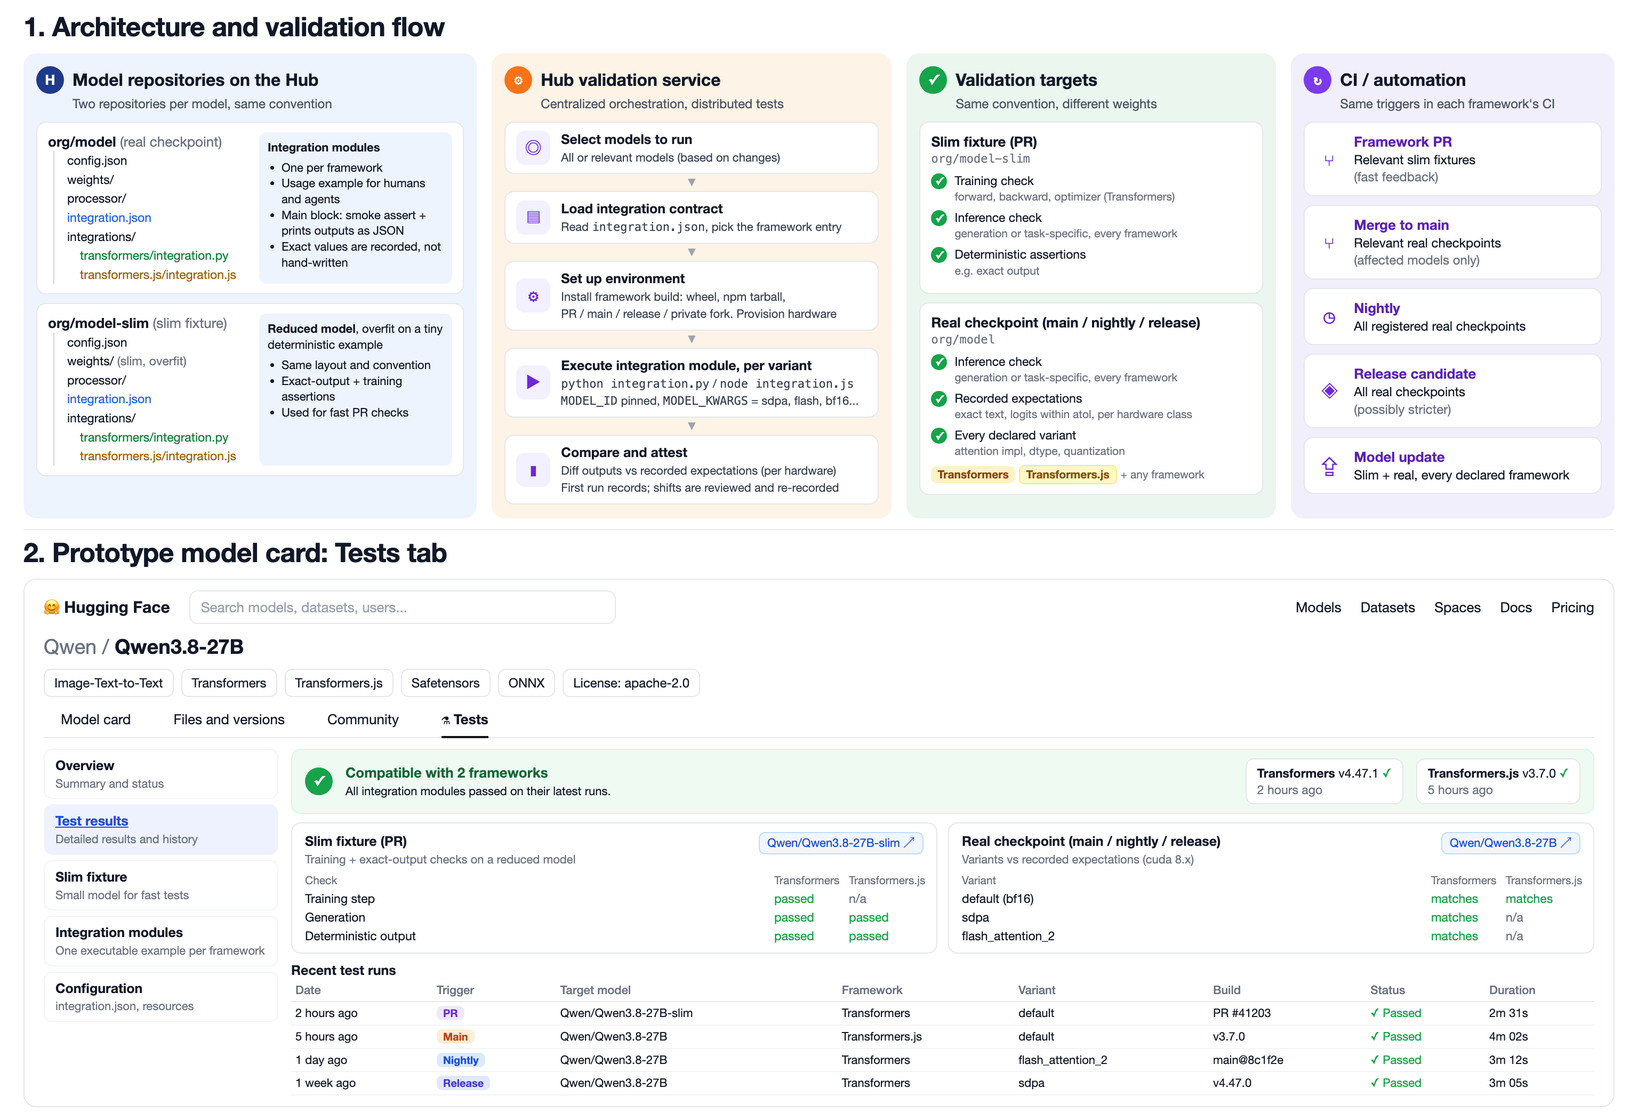
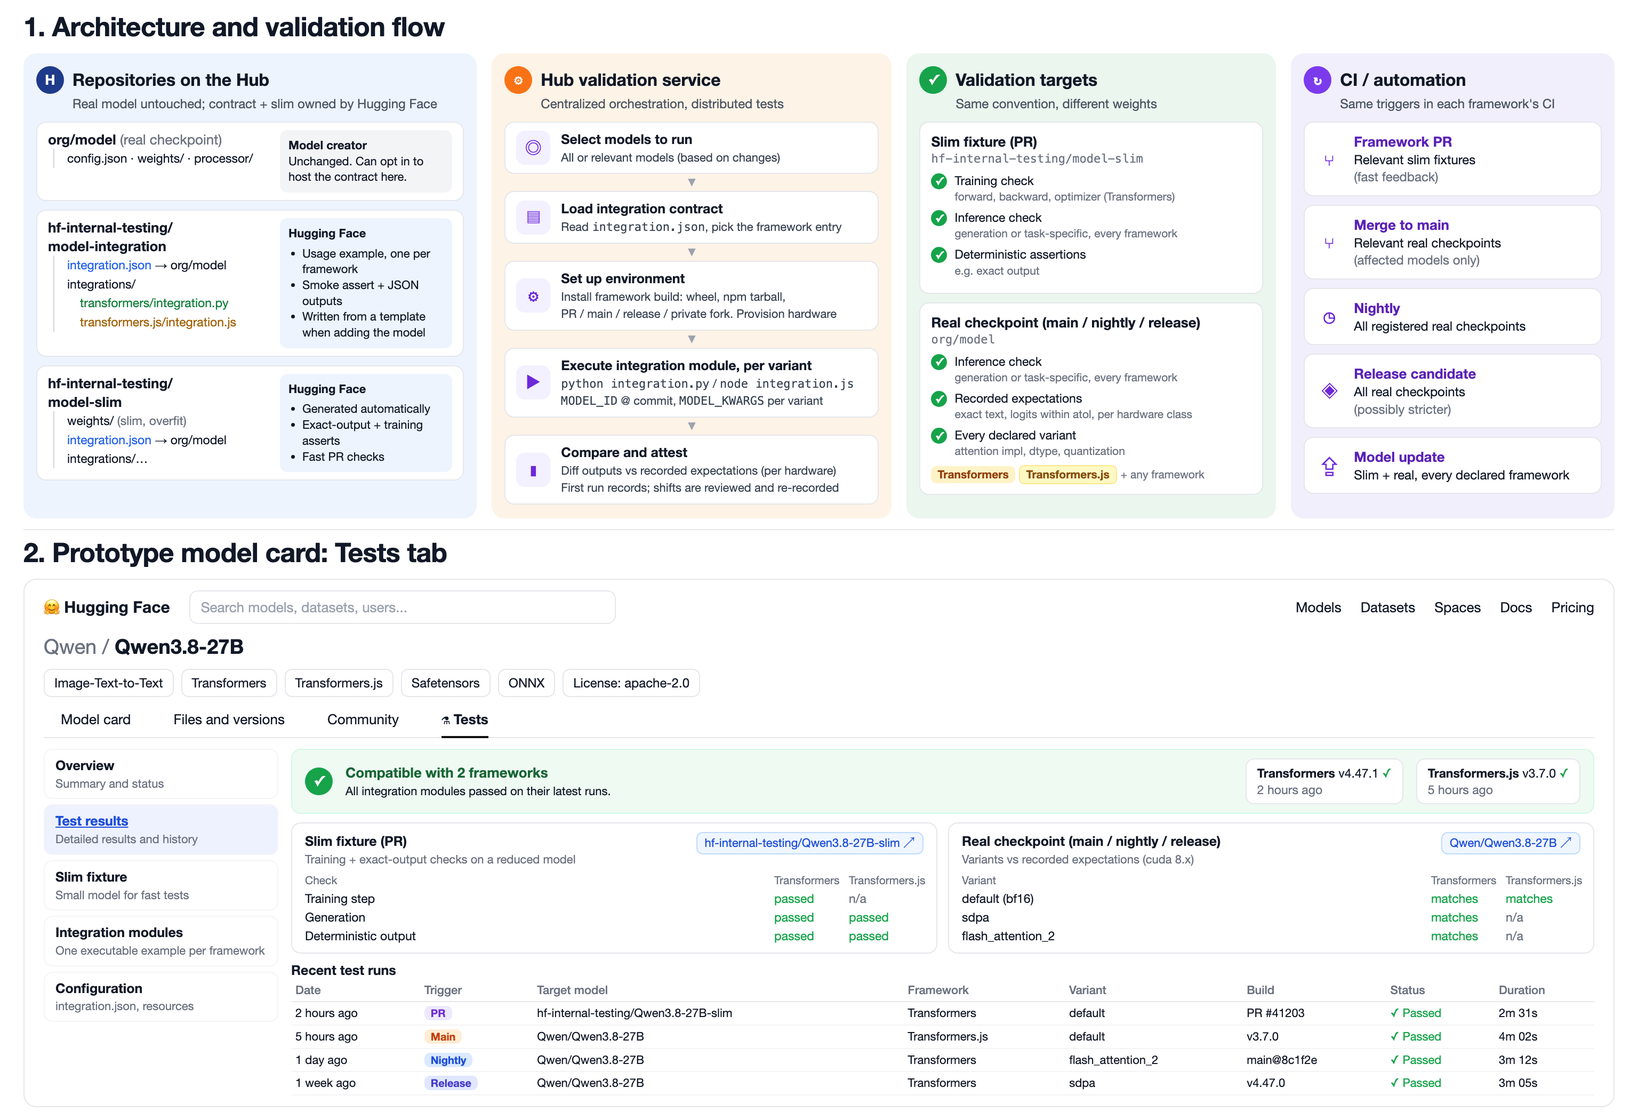
Default to Hugging Face-owned companion repos for contracts and slim fixtures
Based on maintainer feedback: no extra burden on contributors, HF keeps
control of slim checkpoints, model repos stay untouched (creators can opt in),
and runs follow the model's main branch while recording the resolved commit.

diff --git a/model-arch.html b/model-arch.html
@@ -66,21 +66,25 @@ td{padding:3px 4px;border-bottom:1px solid #f3f4f6}
 <div class="row" style="height:436px">
   <!-- Repos -->
   <div class="col blue" style="flex:1.12">
-    <h2><span class="ic" style="background:#1e3a8a">H</span>Model repositories on the Hub</h2>
-    <div class="sub">Two repositories per model, same convention</div>
-    <div class="card repo">
+    <h2><span class="ic" style="background:#1e3a8a">H</span>Repositories on the Hub</h2>
+    <div class="sub">Real model untouched; contract + slim owned by Hugging Face</div>
+    <div class="card repo" style="padding:7px 10px">
       <div class="tree"><div class="t">org/model <span class="muted" style="font-weight:400">(real checkpoint)</span></div>
-        <div class="f">config.json<br>weights/<br>processor/<br><span class="hl">integration.json</span><br>integrations/</div>
-        <div class="f f2"><span class="hlg">transformers/integration.py</span><br><span class="hly">transformers.js/integration.js</span></div>
-      </div>
-      <div class="call"><b>Integration modules</b><ul><li>One per framework</li><li>Usage example for humans and agents</li><li>Main block: smoke assert + prints outputs as JSON</li><li>Exact values are recorded, not hand-written</li></ul></div>
+        <div class="f">config.json · weights/ · processor/</div></div>
+      <div class="call" style="flex:.8;background:#f3f4f6"><b>Model creator</b><br>Unchanged. Can opt in to host the contract here.</div>
     </div>
-    <div class="card repo" style="margin-bottom:0">
-      <div class="tree"><div class="t">org/model-slim <span class="muted" style="font-weight:400">(slim fixture)</span></div>
-        <div class="f">config.json<br>weights/ <span class="muted">(slim, overfit)</span><br>processor/<br><span class="hl">integration.json</span><br>integrations/</div>
+    <div class="card repo" style="padding:7px 10px">
+      <div class="tree"><div class="t">hf-internal-testing/<br>model-integration</div>
+        <div class="f"><span class="hl">integration.json</span> → org/model<br>integrations/</div>
         <div class="f f2"><span class="hlg">transformers/integration.py</span><br><span class="hly">transformers.js/integration.js</span></div>
       </div>
-      <div class="call"><b>Reduced model</b>, overfit on a tiny deterministic example<ul><li>Same layout and convention</li><li>Exact-output + training assertions</li><li>Used for fast PR checks</li></ul></div>
+      <div class="call" style="flex:.8"><b>Hugging Face</b><ul><li>Usage example, one per framework</li><li>Smoke assert + JSON outputs</li><li>Written from a template when adding the model</li></ul></div>
+    </div>
+    <div class="card repo" style="padding:7px 10px;margin-bottom:0">
+      <div class="tree"><div class="t">hf-internal-testing/<br>model-slim</div>
+        <div class="f">weights/ <span class="muted">(slim, overfit)</span><br><span class="hl">integration.json</span> → org/model<br>integrations/…</div>
+      </div>
+      <div class="call" style="flex:.8"><b>Hugging Face</b><ul><li>Generated automatically</li><li>Exact-output + training asserts</li><li>Fast PR checks</li></ul></div>
     </div>
   </div>
   <!-- Service -->
@@ -93,7 +97,7 @@ td{padding:3px 4px;border-bottom:1px solid #f3f4f6}
     <div class="arrow">▼</div>
     <div class="step"><div class="sq">⚙</div><div><b>Set up environment</b><span>Install framework build: wheel, npm tarball,<br>PR / main / release / private fork. Provision hardware</span></div></div>
     <div class="arrow">▼</div>
-    <div class="step"><div class="sq">▶</div><div><b>Execute integration module, per variant</b><span><span class="mono">python integration.py</span> / <span class="mono">node integration.js</span><br><span class="mono">MODEL_ID</span> pinned, <span class="mono">MODEL_KWARGS</span> = sdpa, flash, bf16...</span></div></div>
+    <div class="step"><div class="sq">▶</div><div><b>Execute integration module, per variant</b><span><span class="mono">python integration.py</span> / <span class="mono">node integration.js</span><br><span class="mono">MODEL_ID</span> @ commit, <span class="mono">MODEL_KWARGS</span> per variant</span></div></div>
     <div class="arrow">▼</div>
     <div class="step" style="margin-bottom:0"><div class="sq">▮</div><div><b>Compare and attest</b><span>Diff outputs vs recorded expectations (per hardware)<br>First run records; shifts are reviewed and re-recorded</span></div></div>
   </div>
@@ -101,7 +105,7 @@ td{padding:3px 4px;border-bottom:1px solid #f3f4f6}
   <div class="col green" style="flex:.9">
     <h2><span class="ic" style="background:#16a34a">✓</span>Validation targets</h2>
     <div class="sub">Same convention, different weights</div>
-    <div class="card"><b style="font-size:13px">Slim fixture (PR)</b><div class="mono muted">org/model-slim</div>
+    <div class="card"><b style="font-size:13px">Slim fixture (PR)</b><div class="mono muted">hf-internal-testing/model-slim</div>
       <ul class="chk"><li><div>Training check<small>forward, backward, optimizer (Transformers)</small></div></li>
       <li><div>Inference check<small>generation or task-specific, every framework</small></div></li>
       <li><div>Deterministic assertions<small>e.g. exact output</small></div></li></ul></div>
@@ -143,7 +147,7 @@ td{padding:3px 4px;border-bottom:1px solid #f3f4f6}
         <div class="fw"><b>Transformers</b> v4.47.1 <span class="ok">✓</span><br><span class="muted">2 hours ago</span></div>
         <div class="fw"><b>Transformers.js</b> v3.7.0 <span class="ok">✓</span><br><span class="muted">5 hours ago</span></div></div>
       <div class="row" style="margin-top:8px;gap:10px">
-        <div class="panel"><div class="hd"><div><b style="font-size:12.5px">Slim fixture (PR)</b><br><span class="muted" style="font-size:11px">Training + exact-output checks on a reduced model</span></div><span class="link">Qwen/Qwen3.8-27B-slim ↗</span></div>
+        <div class="panel"><div class="hd"><div><b style="font-size:12.5px">Slim fixture (PR)</b><br><span class="muted" style="font-size:11px">Training + exact-output checks on a reduced model</span></div><span class="link">hf-internal-testing/Qwen3.8-27B-slim ↗</span></div>
           <div class="res"><span class="h">Check</span><span class="h">Transformers</span><span class="h">Transformers.js</span>
           <span>Training step</span><span class="ok">passed</span><span class="muted">n/a</span>
           <span>Generation</span><span class="ok">passed</span><span class="ok">passed</span>
@@ -156,7 +160,7 @@ td{padding:3px 4px;border-bottom:1px solid #f3f4f6}
       </div>
       <div style="margin-top:7px"><b style="font-size:12.5px">Recent test runs</b>
       <table><tr><th>Date</th><th>Trigger</th><th>Target model</th><th>Framework</th><th>Variant</th><th>Build</th><th>Status</th><th>Duration</th></tr>
-      <tr><td>2 hours ago</td><td><span class="tr t-pr">PR</span></td><td>Qwen/Qwen3.8-27B-slim</td><td>Transformers</td><td>default</td><td>PR #41203</td><td class="ok">✓ Passed</td><td>2m 31s</td></tr>
+      <tr><td>2 hours ago</td><td><span class="tr t-pr">PR</span></td><td>hf-internal-testing/Qwen3.8-27B-slim</td><td>Transformers</td><td>default</td><td>PR #41203</td><td class="ok">✓ Passed</td><td>2m 31s</td></tr>
       <tr><td>5 hours ago</td><td><span class="tr t-main">Main</span></td><td>Qwen/Qwen3.8-27B</td><td>Transformers.js</td><td>default</td><td>v3.7.0</td><td class="ok">✓ Passed</td><td>4m 02s</td></tr>
       <tr><td>1 day ago</td><td><span class="tr t-n">Nightly</span></td><td>Qwen/Qwen3.8-27B</td><td>Transformers</td><td>flash_attention_2</td><td>main@8c1f2e</td><td class="ok">✓ Passed</td><td>3m 12s</td></tr>
       <tr><td>1 week ago</td><td><span class="tr t-r">Release</span></td><td>Qwen/Qwen3.8-27B</td><td>Transformers</td><td>sdpa</td><td>v4.47.0</td><td class="ok">✓ Passed</td><td>3m 05s</td></tr>

diff --git a/hub_native_intregration_contracts.md b/hub_native_intregration_contracts.md
@@ -7,15 +7,16 @@ tests in the library, while the checkpoints themselves live on the Hub.
 This creates maintenance overhead, and very large models are too
 expensive to test on every PR.
 
-The proposal is to move **model-specific integration knowledge next to
-the model**, while keeping **orchestration centralized**.
+The proposal is to move **model-specific integration knowledge out of
+the Transformers test suite and onto the Hub, next to the model**, while
+keeping **orchestration centralized**.
 
 The contract is **framework-neutral**. Transformers is the first
 framework, but the same convention lets a model declare integrations
 for Transformers.js, or any other library that loads Hub models, side by
 side.
 
-Each participating model exposes:
+Each participating model gets:
 
 1.  **A canonical executable integration module per framework**: clean
     code showing how to load and use the model with that framework
@@ -31,6 +32,13 @@ Each participating model exposes:
 3.  **Machine-readable metadata**: which frameworks are supported, where
     each integration module lives, where the slim fixture lives, and
     what hardware is required.
+
+By default these live in **companion repositories owned by Hugging
+Face**, not in the model creator's repository. The real model repository
+is left untouched, and Hugging Face keeps full control over the contract
+and the slim weights. Model creators who want to can opt in and host the
+contract in their own repository. See
+[Ownership and hosting](#ownership-and-hosting).
 
 The slim fixture is itself a Hub model repository and follows the same
 convention: its own integration modules and manifest. Each
@@ -67,37 +75,87 @@ Today
 Transformers repo owns test + CI runs it
 
 Proposed
-Model repo owns contract + Hub/CI runs it
+Hub companion repo owns contract + Hub/CI runs it
 ```
 
-Because the contract lives with the model rather than inside one
-library, other frameworks get the same benefit: Transformers.js can
+Because the contract lives on the Hub next to the model rather than
+inside one library, other frameworks get the same benefit: Transformers.js can
 validate against the same model fleet with no extra coordination.
+
+## Ownership and hosting
+
+Feedback from Transformers maintainers shaped the default:
+
+-   **No extra burden on model contributors.** Many contributors would
+    not maintain slim checkpoints well, and asking every one of them to
+    is not realistic. Slim fixture generation should be automated on
+    the Hugging Face side.
+-   **Hugging Face needs control after release.** Maintainers must be
+    able to change configs or weights, regenerate fixtures, or deprecate
+    them without asking the model owner.
+-   **Model repositories belong to their creators.** Companies publish
+    on the Hub on the understanding that they own their repositories.
+    Requiring write access, or files inside their repositories, would
+    conflict with that.
+-   **Incentives are uneven.** Large labs doing coordinated releases
+    care about first-class Transformers support. Many other contributors
+    do not.
+
+So the default is:
+
+| Piece | Hosted in | Owned by |
+| --- | --- | --- |
+| Real model (config, weights, processor) | `org/model` | Model creator (unchanged) |
+| Integration contract (`integration.json`, integration modules) | `hf-internal-testing/model-integration` | Hugging Face |
+| Slim fixture (slim weights, its own integration modules) | `hf-internal-testing/model-slim` | Hugging Face |
+
+The organization name is a placeholder; `hf-internal-testing` already
+hosts test checkpoints today.
+
+What contributors provide stays close to today: when adding a model to
+Transformers, they write the integration module, copied from a template
+for a similar model, much like they write slow integration tests now.
+Hugging Face automation generates the slim fixture and records
+expectations.
+
+**Opt-in for model creators.** A creator who wants first-class support
+can host `integration.json` and `integrations/` in their own repository
+instead. The registry records where each model's contract lives, so
+there is exactly one contract per model.
+
+The Hub links the companion repositories from the model page and shows
+the validation status there, so the contract stays discoverable next to
+the model even when Hugging Face hosts it.
 
 ## Model integration contract
 
-A participating model repository and its slim fixture repository share
-the same layout, with one directory per framework:
+With the default hosting, a model has three repositories. The contract
+and the slim fixture share the same layout, with one directory per
+framework:
 
 ``` text
-org/model                            org/model-slim
-├── config.json                      ├── config.json
-├── weights                          ├── weights (slim, overfit)
-├── processor/tokenizer files        ├── processor/tokenizer files
-├── integration.json                 ├── integration.json
-└── integrations                     └── integrations
-    ├── transformers                     ├── transformers
-    │   └── integration.py               │   └── integration.py
-    └── transformers.js                  └── transformers.js
-        └── integration.js                   └── integration.js
+org/model                     hf-internal-testing/       hf-internal-testing/
+(real model, unchanged)       model-integration          model-slim
+├── config.json               ├── integration.json       ├── config.json
+├── weights                   └── integrations           ├── weights (slim, overfit)
+└── processor files               ├── transformers       ├── processor files
+                                  │   └── integration.py ├── integration.json
+                                  └── transformers.js    └── integrations
+                                      └── integration.js     ├── transformers
+                                                             │   └── integration.py
+                                                             └── transformers.js
+                                                                 └── integration.js
 ```
+
+If the creator opts in, `integration.json` and `integrations/` move into
+`org/model` instead, with the same content.
 
 The integration module is ordinary usage code that can be copied as
 documentation or executed by an agent. Its main block runs the example
 and checks the result, which makes the file its own integration test:
 
 ``` python
-# org/model/integrations/transformers/integration.py
+# model-integration/integrations/transformers/integration.py
 import json
 import os
 
@@ -126,7 +184,7 @@ if __name__ == "__main__":
 The same model used from Transformers.js:
 
 ``` javascript
-// org/model/integrations/transformers.js/integration.js
+// model-integration/integrations/transformers.js/integration.js
 import assert from "node:assert";
 import { pathToFileURL } from "node:url";
 import { pipeline } from "@huggingface/transformers";
@@ -155,7 +213,7 @@ overfit on a tiny example, its module can assert exact outputs and,
 for frameworks that support it, also show and check a training step:
 
 ``` python
-# org/model-slim/integrations/transformers/integration.py
+# model-slim/integrations/transformers/integration.py
 import os
 
 from transformers import AutoModelForCausalLM, AutoTokenizer
@@ -174,7 +232,7 @@ def train_step(model_id: str, text: str):
     return model, loss.item()
 
 if __name__ == "__main__":
-    model_id = os.environ.get("MODEL_ID", "org/model-slim")
+    model_id = os.environ.get("MODEL_ID", "hf-internal-testing/model-slim")
     assert run(model_id, PROMPT) == " Paris"
     model, loss = train_step(model_id, PROMPT + " Paris")
     assert loss < 0.1
@@ -182,8 +240,7 @@ if __name__ == "__main__":
 ```
 
 The runner executes the file (`python integration.py`,
-`node integration.js`) with `MODEL_ID` set to the model pinned at an
-immutable revision, and `MODEL_KWARGS` set to the variant being tested
+`node integration.js`) with `MODEL_ID` set to the model, and `MODEL_KWARGS` set to the variant being tested
 (attention implementation, dtype, quantization, ...). Exit code 0 means
 the module's own checks passed. The last line of output is a JSON
 object with the values the runner compares against recorded
@@ -196,12 +253,14 @@ A separate versioned manifest is preferable to overloading
 different responsibilities. The manifest is named `integration.json`,
 not after a single framework, and lists each supported framework.
 
-The real model's manifest points to its slim fixture:
+The contract's manifest names the model it validates and its slim
+fixture:
 
 ``` json
 {
   "schema_version": 1,
-  "slim_fixture": "org/model-slim",
+  "model": "org/model",
+  "slim_fixture": "hf-internal-testing/model-slim",
   "frameworks": {
     "transformers": {
       "runtime": "python",
@@ -261,29 +320,28 @@ tooling can validate it without executing any code.
 Adding a framework means adding a directory and a manifest entry. It
 never requires changes to the other frameworks' modules. Framework
 specific weight formats (for example ONNX weights for Transformers.js)
-live in the model repository as they do today.
+live in the real model repository as they do today.
 
 ## Usage example vs. validation logic
 
 For each framework there is one canonical usage path, but two
-validation targets. Each lives in its own repository with its own
-integration module:
+validation targets, each with its own integration module:
 
 ``` text
-            org/model-slim                     org/model
-        integration modules              integration modules
-            slim fixture                    real checkpoint
-          PR / fast checks             main / nightly / release
-        training + inference                  inference
-      deterministic assertions          appropriate assertions
-                    \                          /
-                     manifest + validation runner
+        model-slim                     model-integration
+    integration modules               integration modules
+      slim fixture                  runs against org/model
+    PR / fast checks              main / nightly / release
+  training + inference                   inference
+deterministic assertions             recorded expectations
+             \                               /
+                manifest + validation runner
 ```
 
 The slim fixture repository has its own generated model card linking
-back to the real model. The **real model repository owns the integration
-contract** and declares its slim fixture; the slim repository carries
-the assertions that only make sense for slim weights.
+back to the real model. The **contract repository** names the real model
+and declares its slim fixture; the slim repository carries the
+assertions that only make sense for slim weights.
 
 ## Slim integration fixtures
 
@@ -321,8 +379,7 @@ published model's actual settings (RoPE scaling, sliding window, MoE
 routing) and keeps nested configs consistent. The cost is shrink rules
 for coupled fields (`layer_types`, `head_dim`, MoE settings); the tester
 config remains a reference for target sizes and a fallback. Some
-architectures will need overrides, or the model creator can provide the
-fixture directly.
+architectures will need overrides, maintained by Hugging Face.
 
 A fixture is valid only if its integration modules pass. A fixture that
 cannot be built blocks registration of the contract rather than being
@@ -334,8 +391,8 @@ A single stage 1 run failed for 11 model classes: nested configs out of
 sync after the top-level `vocab_size` patch (Canary, Granite Speech 5),
 and no processor found for sub-configs or new models (MiniCPM-V 4.7,
 Qwen4Exp, and others). It is one run, but both failure types would go
-away if fixtures were built from the real model repository by the
-model's contributor.
+away if fixtures were built from the real model repository's config and
+processor.
 
 ## Reality check: how Transformers asserts today
 
@@ -475,6 +532,13 @@ A validation result belongs to immutable inputs:
 model revision × framework × framework revision/build → result
 ```
 
+Runs follow the real model's `main` branch, as integration tests do
+today: model updates that break tests happen, but rarely. Each run
+resolves `main` to a commit and records it, so a result always refers
+to an exact revision. A model update that changes outputs, such as a
+switch from right to left padding, shows up as a mismatch with the
+recorded expectations and is reviewed like any other change.
+
 The framework side must not be limited to public releases. The
 validator should accept an arbitrary build artifact such as a wheel, an
 npm tarball, a commit, a container, a PR build, or a private fork.
@@ -581,10 +645,14 @@ to prove the contract is not tied to Python.
 
 For each pilot model, add:
 
--   `integrations/transformers/integration.py`;
+-   a contract repository under `hf-internal-testing` with
+    `integrations/transformers/integration.py` and a small
+    `integration.json` manifest;
 -   for one model, `integrations/transformers.js/integration.js`;
--   a small `integration.json` manifest;
--   a canonical slim fixture repository with the same layout.
+-   a slim fixture repository with the same layout.
+
+If one pilot model's creator is willing, host its contract in their own
+repository to test the opt-in path.
 
 Keep the manifest intentionally small: schema version, slim fixture
 link, and for each framework its runtime, entry point, and resource
@@ -669,10 +737,12 @@ Hub-native scheduling/attestation.
 ## Core idea
 
 > **Model compatibility becomes an executable, versioned, discoverable
-> contract owned alongside the model.**
+> contract that lives on the Hub next to the model.**
 
-The model owner provides an integration module for each framework,
-and the slim fixture. Each framework keeps its implementation-level
-tests. The Hub provides discovery, execution, scheduling, and
+Hugging Face hosts the contract and the slim fixture by default, and
+model creators can opt in to host the contract themselves. Contributors
+write the integration module when adding a model, as they write tests
+today. Each framework keeps its implementation-level and
+framework-behavior tests. The Hub provides discovery, execution, scheduling, and
 attestation. Real checkpoints still run nightly; slim fixtures provide
 fast feedback earlier in the development cycle.
